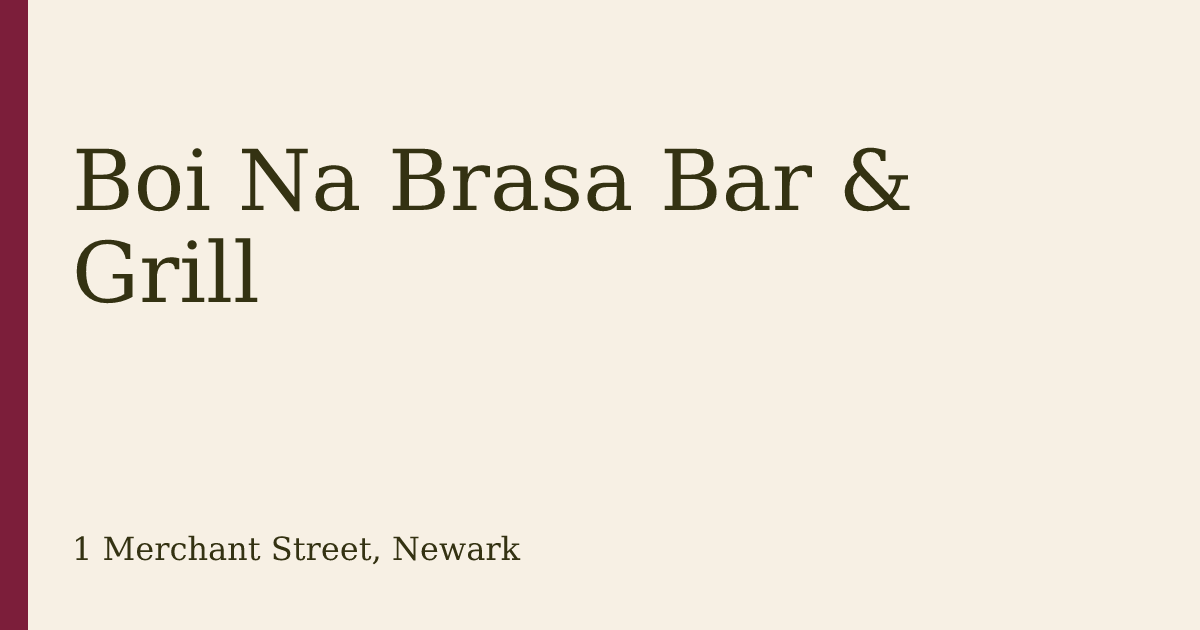
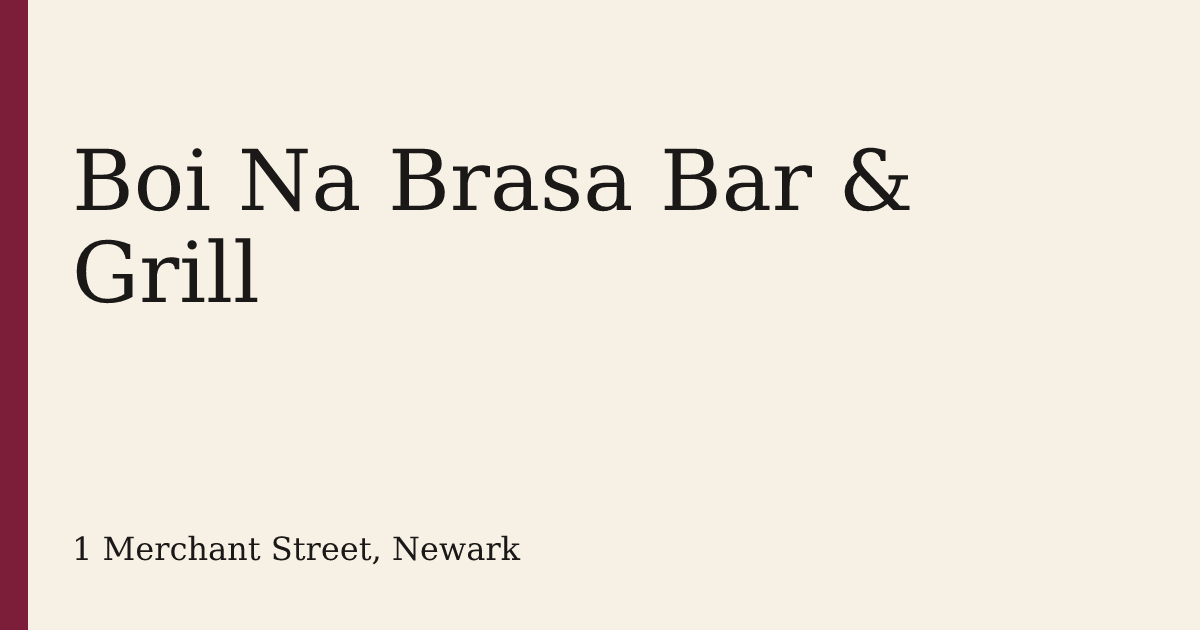
Restore 44px link targets and the last review notes
Prose links are 44px again. Boi's stripe clears the wood band, and the order bar has an ink top edge. Boi and Virgen use neutral near-black ink now that dark colors skip the hue check. Cantinho asks the guest to confirm the street, and a delivery fee year has to fall between 1990 and the current year.

diff --git a/src/styles/global.css b/src/styles/global.css
@@ -53,8 +53,10 @@ main a:not(.button),
   display: inline-block;
   box-sizing: border-box;
   min-height: 44px;
+  min-width: 44px;
   max-width: 100%;
-  padding: 0.55rem 0;
+  padding: 0.55rem 0.25rem;
+  text-align: center;
   overflow-wrap: anywhere;
 }
 
@@ -182,6 +184,7 @@ html[lang="pt"] .l.block[data-lang="pt"] {
   display: flex;
   align-items: center;
   min-height: 44px;
+  min-width: 44px;
   padding: 0.35rem 0.6rem;
   text-decoration: none;
 }
@@ -535,6 +538,7 @@ body:has(dialog[open]) .order-bar {
   gap: 0.5rem;
   padding: 0.5rem 0.75rem calc(0.5rem + env(safe-area-inset-bottom));
   background: var(--band);
+  border-top: 2px solid var(--ink);
 }
 
 .order-bar button {
@@ -738,7 +742,7 @@ pre.list-text {
 
 .poster-sheet {
   padding: 1.1rem 1rem 1.4rem;
-  border-left: 10px solid var(--accent);
+  border-left: 10px solid color-mix(in srgb, var(--accent) 35%, var(--on-band));
 }
 
 .hero-poster h1 {

diff --git a/DESIGN.md b/DESIGN.md
@@ -22,8 +22,8 @@ Open and closed use `America/New_York`. Unknown hours stay unknown.
 | Peruvian Brazas | Warm paper #FFF8EE, teal ink #12302E, pale band #EDEEEC, teal #0E6B62 | Bricolage Grotesque | Counter window | Rows, names only |
 | Cantinho Mineiro | Paper #F7F3E8, ink #1C2410, green #1F6B4A | Libre Baskerville | Letterpress card | Hanging names |
 | Sabor Unido | Paper #F3EEE6, navy #12324E, terracotta #B42E1C | Petrona | Two columns, Saturday feijoada | Rows, published menu |
-| Virgen de la Nube | Paper #F7F4EE, plum ink #2A1848, blue #1A3278, plum #7A3A68 | Cormorant Garamond | Chapel stack | Hanging names, labeled sample |
+| Virgen de la Nube | Paper #F7F4EE, near-black #1A1917, blue #1A3278, plum #7A3A68 | Cormorant Garamond | Chapel stack | Hanging names, labeled sample |
 
-Palette cues that come from a real surface: J&V beige is sampled from a photo of the room and the forest green is the cafeteria awning. Andros keeps diner maroon and mustard. Brisas keeps sea blue and lime. Cityrub's soot and ember follow the dark wood of the room and the black site. Boi's wood band is sampled from a photo of the room and shifted toward gold. Sabor's navy follows the restaurant site, with a terracotta accent. Accent, band, and ink hues are checked in pairs, and each accent is also checked against that restaurant's own band. The hero variant is not part of that check.
+Palette cues that come from a real surface: J&V beige is sampled from a photo of the room and the forest green is the cafeteria awning. Andros keeps diner maroon and mustard. Brisas keeps sea blue and lime. Cityrub's soot and ember follow the dark wood of the room and the black site. Boi's wood band is sampled from a photo of the room and shifted toward gold. Sabor's navy follows the restaurant site, with a terracotta accent. Accent, band, and ink hues are checked in pairs, and each accent is also checked against that restaurant's own band. Very dark, very light, and low-chroma colors are left out of that hue check. The hero variant is not part of that check.
 
 Checkout on every page ends on the sentence "Demo site: no order was placed. Call to order."
